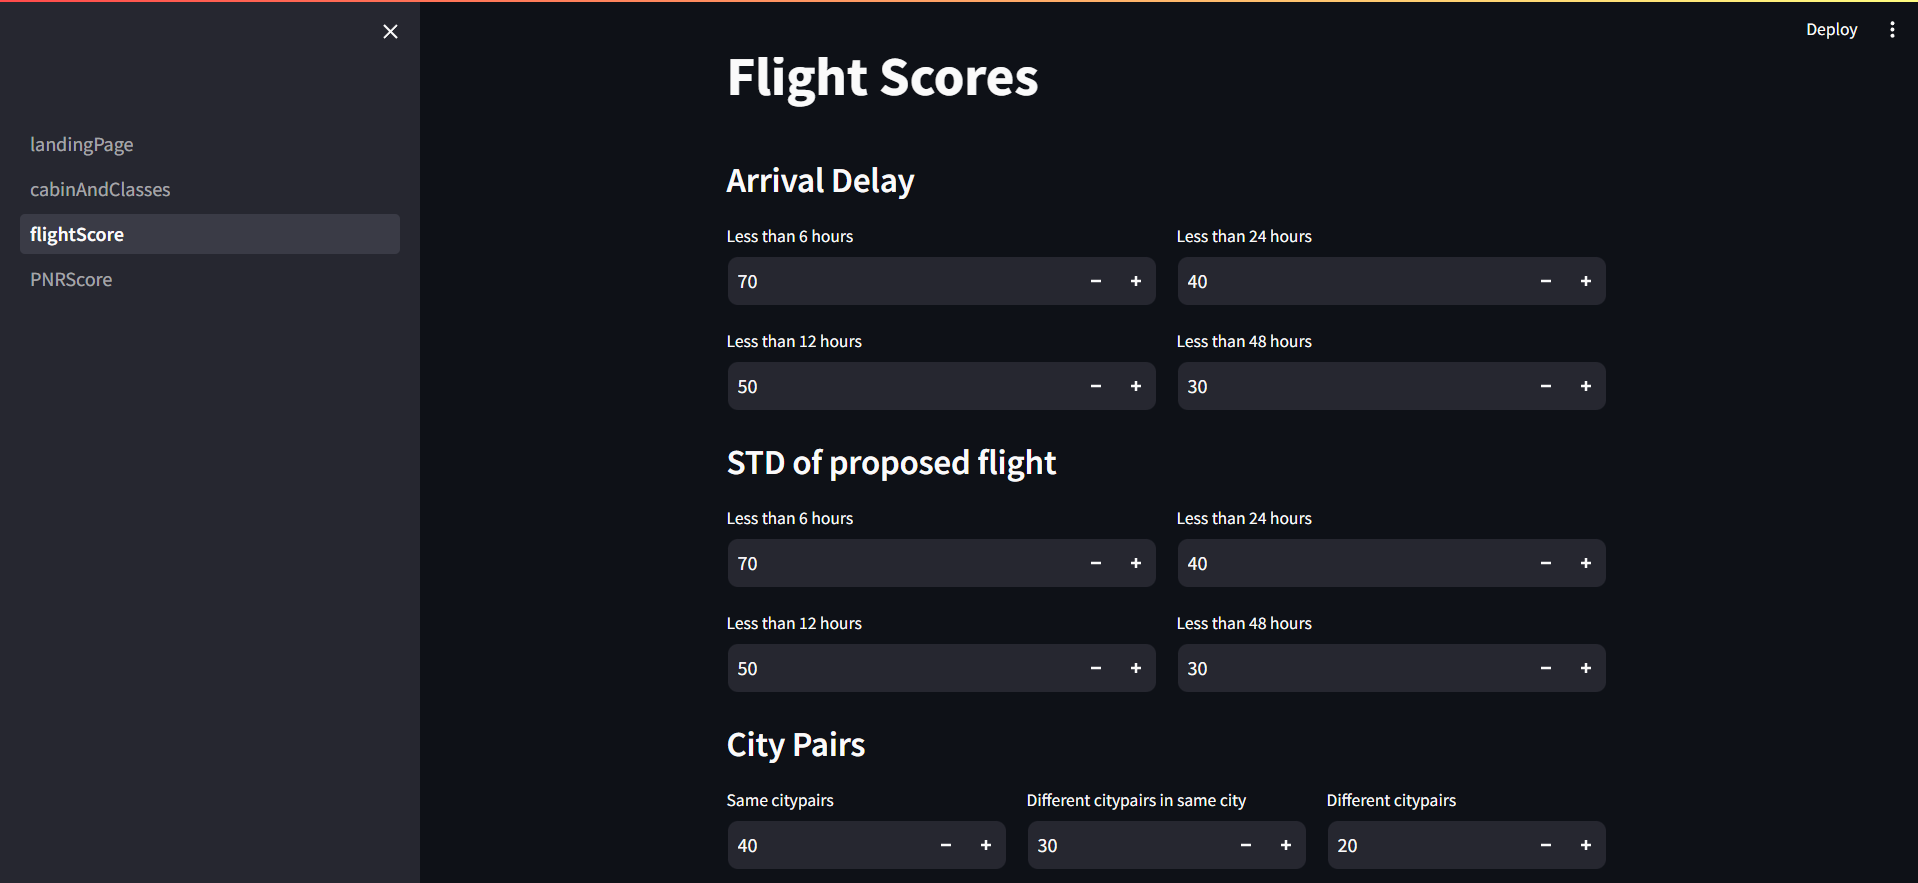
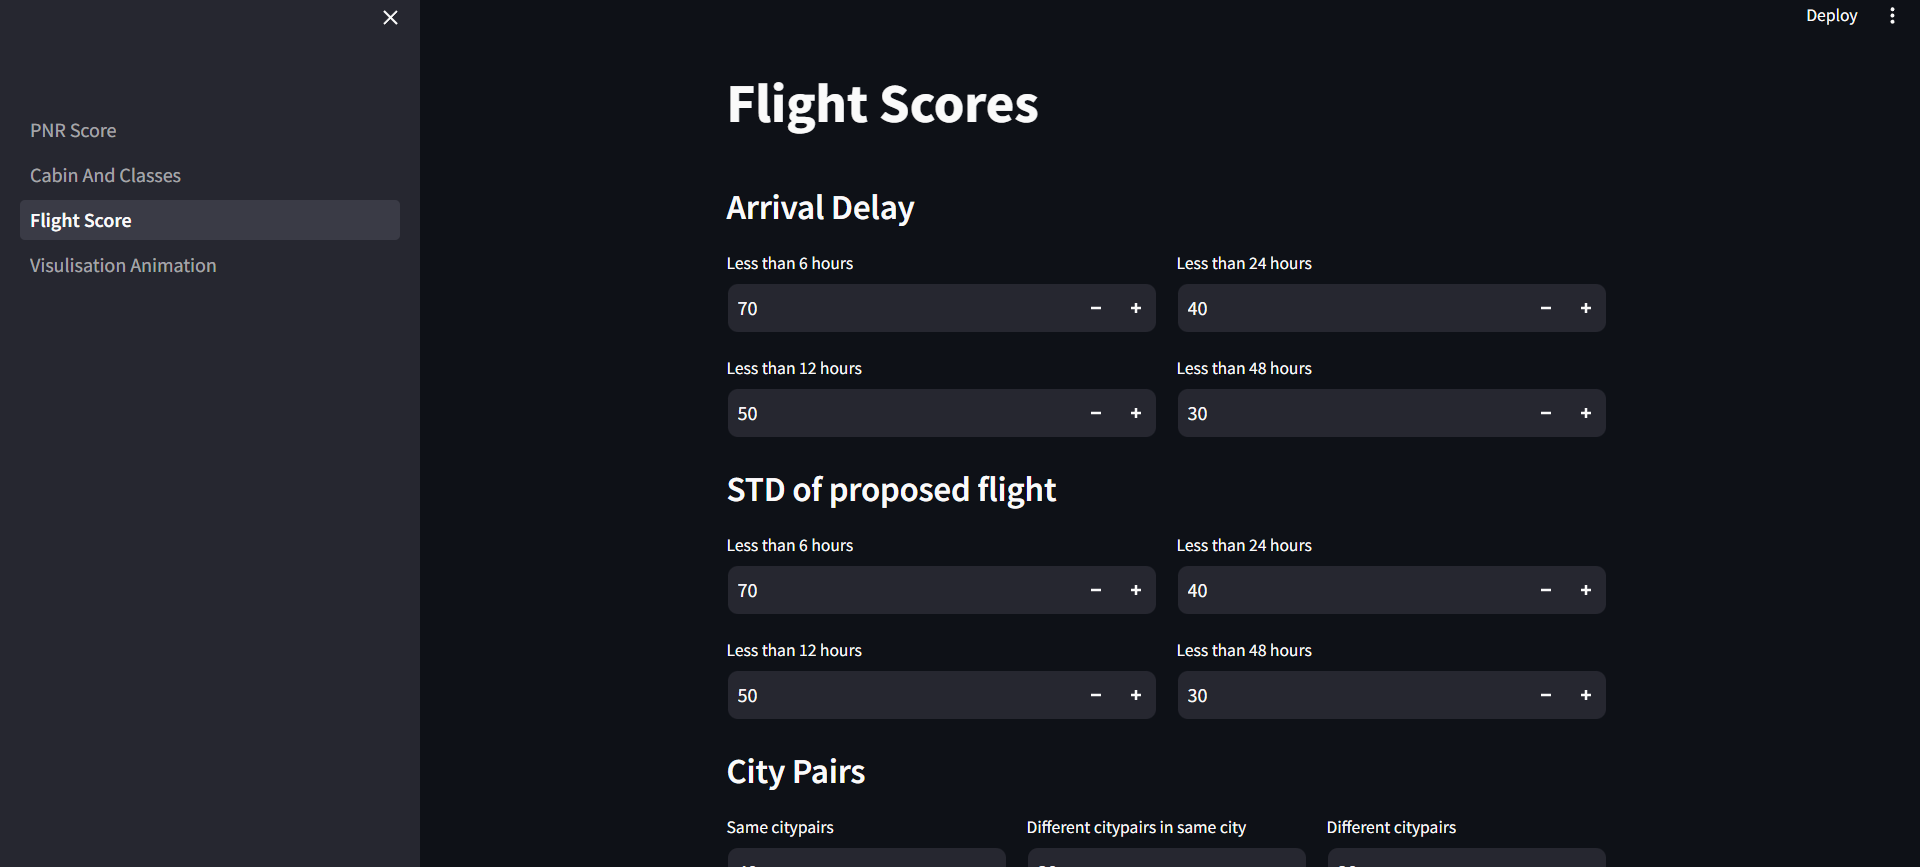
Updated readme

diff --git a/README.md b/README.md
@@ -60,10 +60,14 @@ Each file contains widgets to adjust various parameters along with some default 
   
 ![Flight Scores](./assets/FlightScores_SS.png)
 
-### Result_Visualisation.py
-- Used to display the new and optimal flight and class details of re-accomadated passengers
+### Visualisation_Animation.py
+- Used to display the new and optimal flight and class details of re-accomadated passengers.
+To run this page, open a separate terminal in the ReactAnimation/visualization folder and run the following command 
+```
+    npm start
+```
 
-![Result Visualisation](./assets/ResultVisualisation_SS.png)
+![Visualisation Animation](./assets/ResultVisualisation_SS.png)
 
 ## Glossary
 
